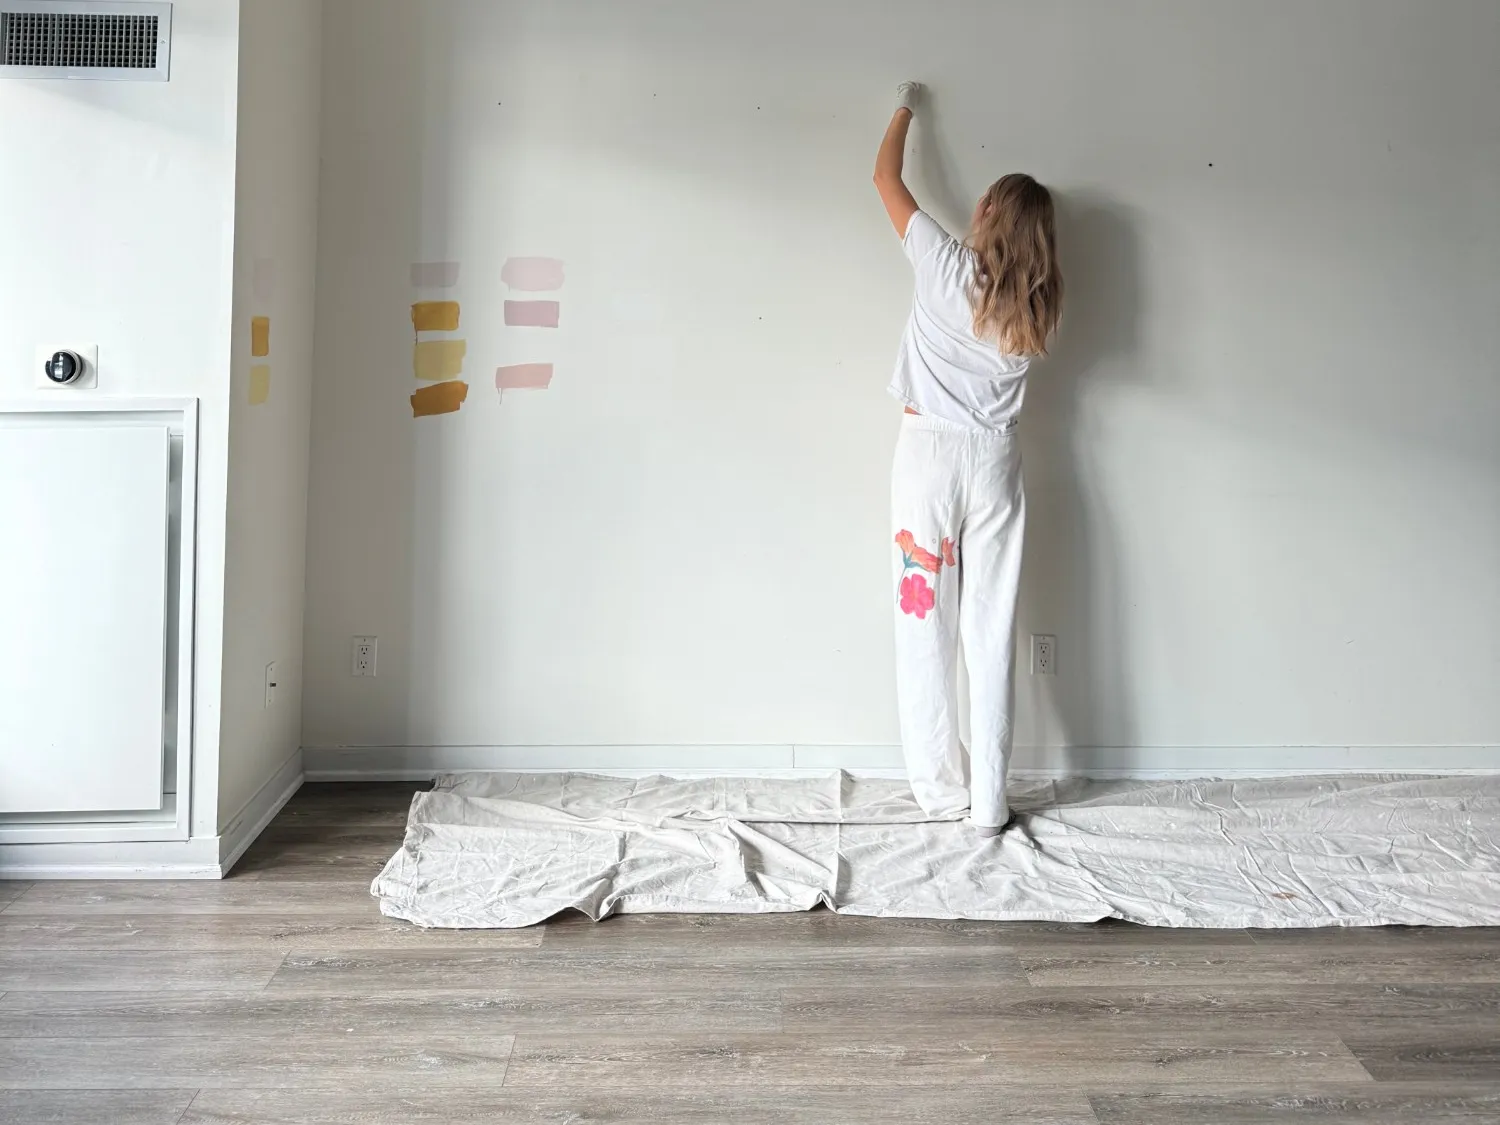
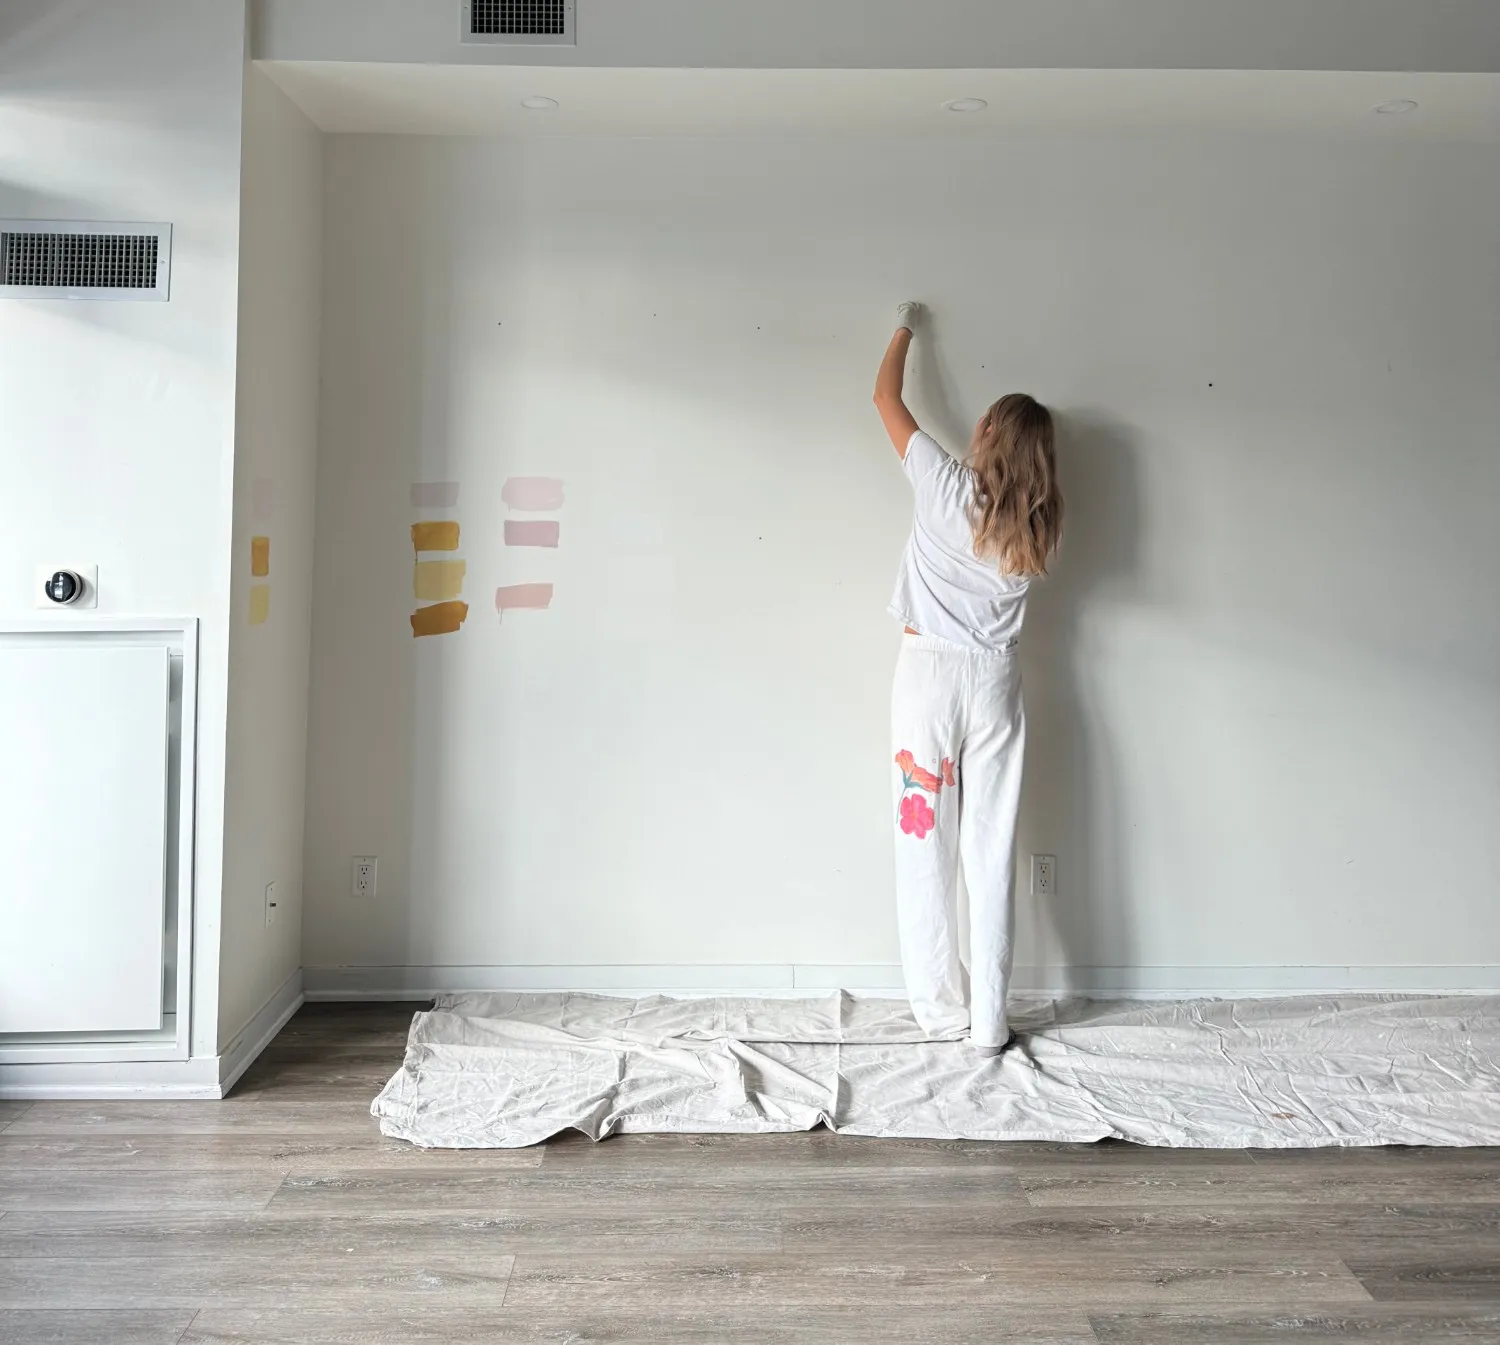
fix(interiors): desktop hero headroom above the subject
The hero band started right at the designer's raised hand, so desktop's
object-fit cover clipped it against the nav. The committed crop is now a
taller band starting at the bulkhead above her, and the hero image gets
object-position 'center 25%' so wide viewports keep that headroom; narrow
viewports show the full band height, leaving mobile framing unchanged.

Claude-Session: https://claude.ai/code/session_01TomrMLeXD1hhqqdhji8vuw

diff --git a/components/interiors/Interiors.module.css b/components/interiors/Interiors.module.css
@@ -246,6 +246,10 @@
   width: 100%;
   height: 100%;
   object-fit: cover;
+  /* Bias the visible window toward the top of the frame so wide viewports
+     keep the headroom above the subject; on narrow viewports the full image
+     height is shown and this has no effect. */
+  object-position: center 25%;
   display: block;
 }
 